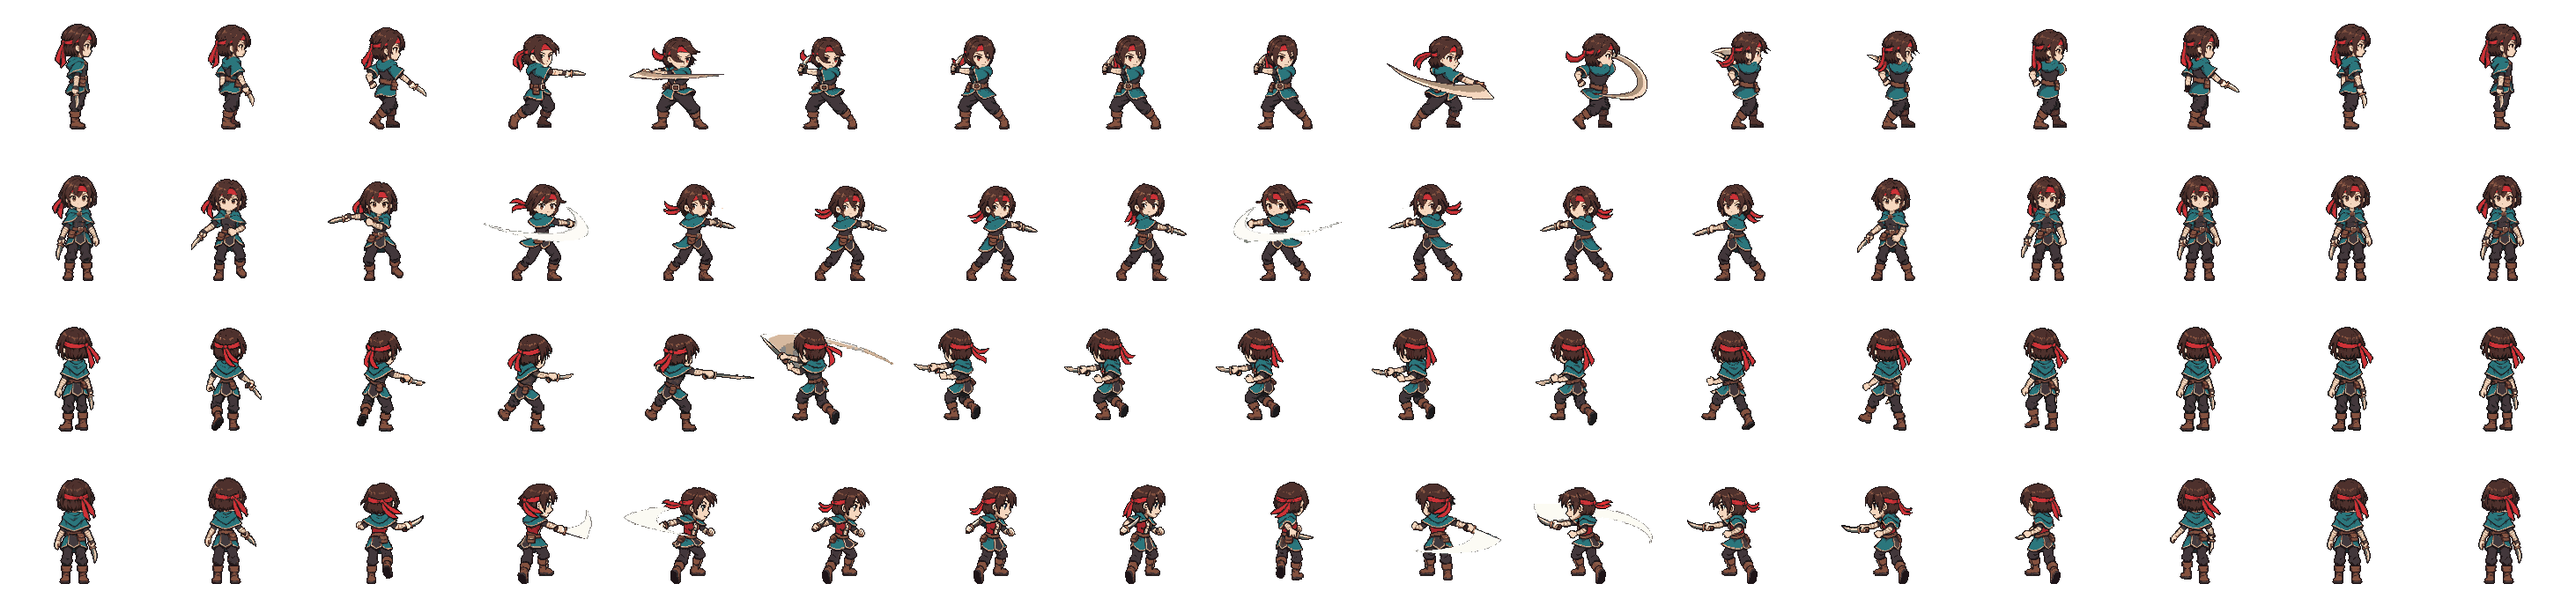
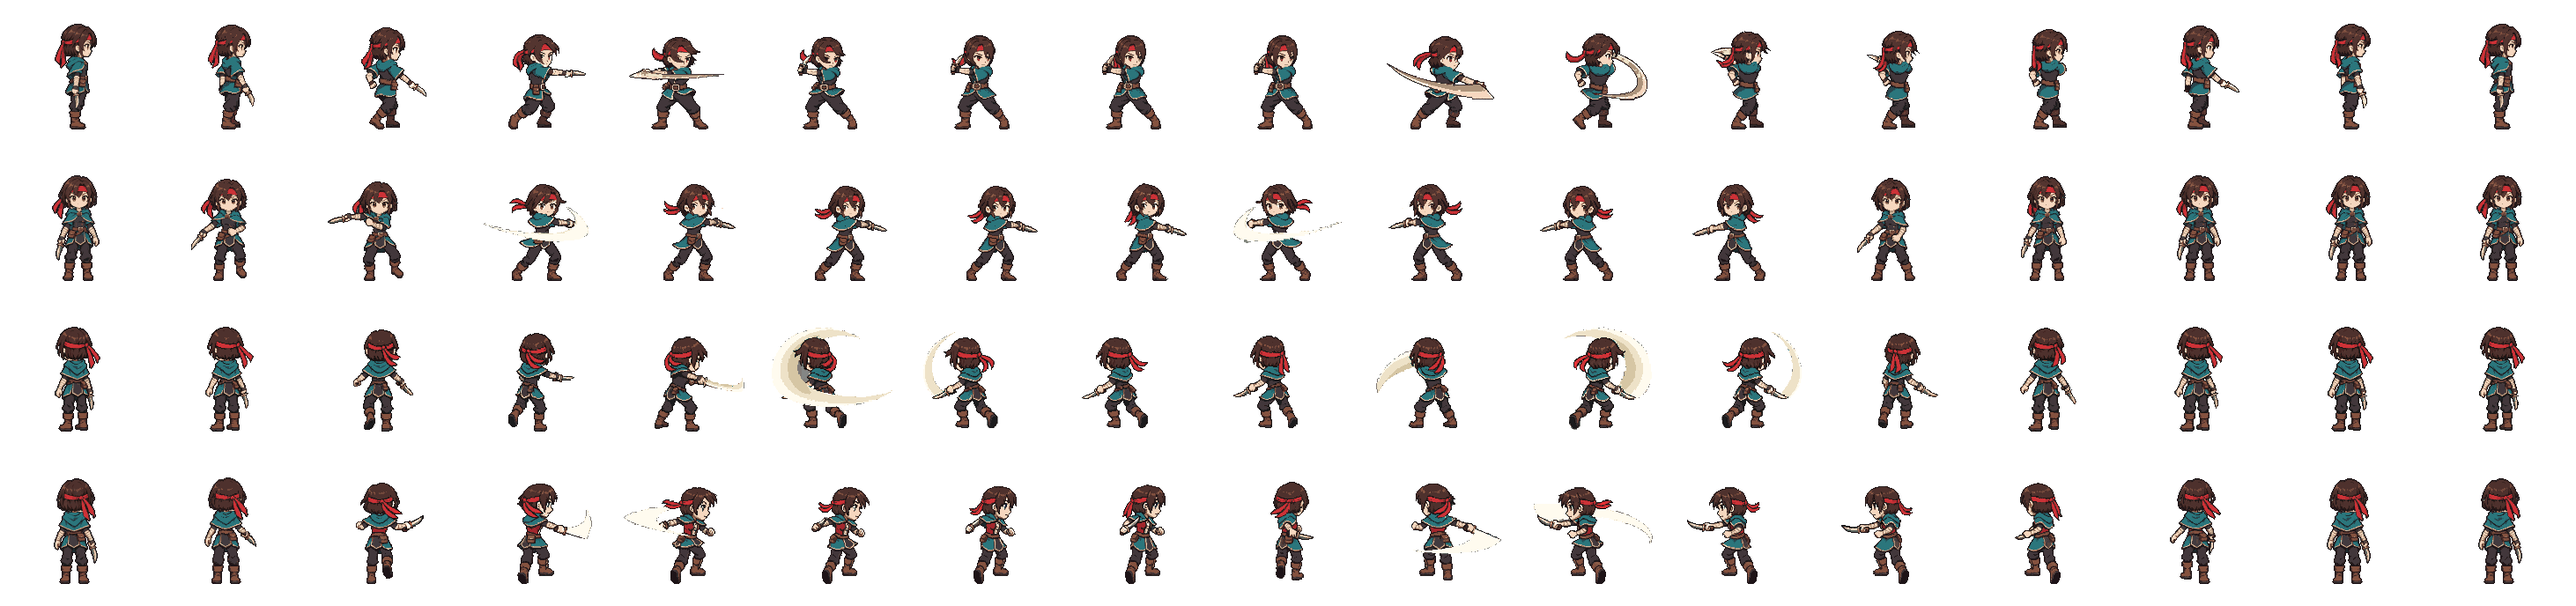
Action prototype: same blade-arc colour in every direction, hit effects
Every direction's blade arc is repainted on one cream-white ramp (PixelLab
drew them white, beige or cyan). The upper diagonals use the new two-sweep
back-view attack. New pixel effects: impact star and ring at the hit point,
a slime splat on a kill, a short white flash and camera kick on the last
hit, dust under the run, and roll after-images in the roll pose.

diff --git a/action.html b/action.html
@@ -163,6 +163,38 @@ function ellipseSprite(w, h, col, ring) {
     if (r <= 1 && (!ring || r > .62)) P.set(x, y, c, ring ? 255 : 255); }
   return P.done();
 }
+// hit effects as pixel sprites (owner: effects like the reference game): impact star -> ring -> sparkles; slime splat
+function starFrames(R, n) {
+  const W = [255, 255, 255], Y = [255, 236, 150], out = [];
+  for (let f = 0; f < n; f++) {
+    const S = R * 2 + 6, P = painter(S, S), c = S >> 1, k = f / (n - 1);
+    if (f === 0) {                                   // bright core, 4 long rays, 4 short diagonals
+      for (let i = -R; i <= R; i++) { const a = Math.abs(i), w = a < R * .3 ? 2 : a < R * .65 ? 1 : 0, col = a > R * .7 ? Y : W;
+        for (let t = -w; t <= w; t++) { P.set(c + i, c + t, col); P.set(c + t, c + i, col); } }
+      const q = R * .5 | 0; for (let i = -q; i <= q; i++) { P.set(c + i, c + i, Y); P.set(c + i, c - i, Y); }
+      P.disc(c, c, Math.max(2, R * .22 | 0), Math.max(2, R * .22 | 0), W);
+    } else {                                         // expanding ring that thins out, with sparkles round it
+      const rr = R * (.45 + .55 * k), th = f === n - 1 ? .6 : 1.3;
+      for (let y = 0; y < S; y++) for (let x = 0; x < S; x++) if (Math.abs(Math.hypot(x - c, y - c) - rr) < th) P.set(x, y, f < n - 1 ? W : Y);
+      if (f === 1) { const q = R * .55 | 0; for (let i = -q; i <= q; i++) { P.set(c + i, c, W); P.set(c, c + i, W); } P.disc(c, c, 2, 2, W); }
+      for (let s = 0; s < 6; s++) { const a = s * Math.PI / 3 + f * .4, d = rr + 3; P.set(c + Math.cos(a) * d, c + Math.sin(a) * d, Y); P.set(c + Math.cos(a) * d + 1, c + Math.sin(a) * d, Y); }
+    }
+    out.push(P.done());
+  }
+  return out;
+}
+function splatFrames(dk, lt) {
+  const D = hex(dk), L = hex(lt), out = [];
+  for (let f = 0; f < 4; f++) {
+    const S = 64, P = painter(S, S), c = S >> 1, rr = 6 + f * 7, r = Math.max(1, 3 - f);
+    P.disc(c, c + 10, 12 + f * 3, 3 + (f > 1 ? 0 : 1), D);                 // puddle spreading on the ground
+    for (let s = 0; s < 10; s++) { const a = s * Math.PI / 5 + .3, x = c + Math.cos(a) * rr, y = c + Math.sin(a) * rr * .6 - (f < 2 ? 4 : 0);
+      P.disc(x | 0, y | 0, r, r, f < 2 ? L : D); }
+    out.push(P.done());
+  }
+  return out;
+}
+const FXS = {};
 // 3x5 pixel digits for damage numbers
 const DIG = ['111101101101111', '010110010010111', '111001111100111', '111001111001111', '101101111001001', '111100111001111', '111100111101111', '111001001010010', '111101111101111', '111101111001111'];
 
@@ -176,6 +208,8 @@ async function load() {
   BG = makeGround();
   SL.green = makeSlime(['#2f6f2a', '#56b045', '#8fe070', '#e8ffd8']);
   SL.blue = makeSlime(['#284a8a', '#4a7fd0', '#86b8f4', '#eef6ff']);
+  FXS.burst = starFrames(13, 4); FXS.burstB = starFrames(22, 5);
+  FXS.splat_green = splatFrames('#2f6f2a', '#8fe070'); FXS.splat_blue = splatFrames('#284a8a', '#86b8f4');
 }
 
 // ---------- state ----------
@@ -269,10 +303,13 @@ function doHit(p, h) {
     any = true; m.hp -= h.dmg; m.hit = .12; m.st = 'hurt'; m.t = 0;
     const k = h.kb / Math.max(d, 1); m.kx = dx * k * 4; m.ky = dy * k * 4;
     spark(m.x, m.y - 16, 8, '#ffffff'); spark(m.x, m.y - 16, 4, '#ffe066');
+    G.fx.push({k: 'burst', x: m.x - dx / Math.max(d, 1) * 10, y: m.y - 18, t: 0, life: .2, big: h.kb > 60});   // impact star
     G.nums.push({x: m.x + (rnd() - .5) * 10, y: m.y - 46, v: h.dmg, t: 0, big: h.dmg >= 20});
-    if (m.hp <= 0) { G.kills++; m.dieT = 0; for (let k2 = 0; k2 < 10; k2++) puff(m.x + (rnd() - .5) * 30, m.y - 8, m.kind === 'blue' ? '#86b8f4' : '#8fe070'); }
+    if (m.hp <= 0) { G.kills++; m.dieT = 0; for (let k2 = 0; k2 < 10; k2++) puff(m.x + (rnd() - .5) * 30, m.y - 8, m.kind === 'blue' ? '#86b8f4' : '#8fe070');
+      G.fx.push({k: 'splat', x: m.x, y: m.y - 8, t: 0, life: .4, c: m.kind}); }
   }
-  if (any) { G.hs = Math.max(G.hs, h.hs); G.shake = Math.max(G.shake, h.sh); }
+  if (any) { G.hs = Math.max(G.hs, h.hs); G.shake = Math.max(G.shake, h.sh);
+    if (h.kb > 60) { G.flash = .09; G.kick = {x: fx * 6, y: fy * 6, t: .12}; } }   // last hit: white flash + camera kick
   // no code-drawn slash arc: the PixelLab frames carry their own blade smears (owner found the extra arc odd)
 }
 function hurtPlayer(dmg, fromX, fromY) {
@@ -302,7 +339,7 @@ function stepPlayer(dt) {
   if (p.state === 'roll') {
     const r = p.roll; r.t += dt; const k = 1 - r.t / ROLL.t, sp = ROLL.sp * (.35 + .65 * k);
     p.x += r.vx * sp * dt; p.y += r.vy * sp * dt; r.g -= dt;
-    if (r.g <= 0) { r.g = .035; G.ghosts.push({x: p.x, y: p.y, dir: p.dir, t: 0}); }
+    if (r.g <= 0) { r.g = .035; G.ghosts.push({x: p.x, y: p.y, dir: p.dir, t: 0, k: r.t / ROLL.t}); if (rnd() < .6) puff(p.x + (rnd() - .5) * 16, p.y, '#e6dcc0'); }
     if (r.t >= ROLL.t) { p.state = 'idle'; p.roll = null; puff(p.x, p.y, '#e6dcc0'); }
   } else if (p.state === 'atk') {
     const a = p.a, P = a.plan; a.t += dt * 1000;
@@ -327,7 +364,7 @@ function stepPlayer(dt) {
   if (p.state === 'idle' || p.state === 'move') {
     if (mx || my) {
       p.state = 'move'; const sp = RUN; p.x += mx * sp * dt; p.y += my * sp * dt; p.dir = dirOf(mx, my);
-      p.step += dt; if (p.step > .14) { p.step = 0; p.bob ^= 1; if (p.bob) puff(p.x - DV[p.dir][0] * 8, p.y, '#cfe3a8'); }
+      p.step += dt; if (p.step > .15) { p.step = 0; p.bob ^= 1; puff(p.x - DV[p.dir][0] * 10 + (rnd() - .5) * 8, p.y - 1, p.bob ? '#efe6c9' : '#d9e8b4'); }   // kicked-up dust
     } else { p.state = 'idle'; p.bob = 0; }
   }
   p.x = clamp(p.x, MARGIN.l, WW - MARGIN.r); p.y = clamp(p.y, MARGIN.t, WH - MARGIN.b);
@@ -385,6 +422,7 @@ function step(dt) {
   for (const g of G.ghosts) g.t += dt; G.ghosts = G.ghosts.filter(g => g.t < .22);
   if (G.banner) { G.banner.t += dt; if (G.banner.t > 1.6) G.banner = null; }
   G.shake = Math.max(0, G.shake - dt * 30);
+  if (G.flash > 0) G.flash -= dt; if (G.kick) { G.kick.t -= dt; if (G.kick.t <= 0) G.kick = null; }
 }
 
 // ---------- drawing ----------
@@ -438,6 +476,7 @@ function draw() {
   cam.x = clamp(cam.x, 0, Math.max(0, WW - VW)); cam.y = clamp(cam.y, 0, Math.max(0, WH - VH));
   let cx = Math.round(cam.x), cy = Math.round(cam.y);
   if (G.shake > 0) { cx += Math.round((rnd() - .5) * G.shake * 2); cy += Math.round((rnd() - .5) * G.shake * 2); }
+  if (G.kick) { const k = G.kick.t / .12; cx += Math.round(G.kick.x * k); cy += Math.round(G.kick.y * k); }
   ctx.setTransform(S, 0, 0, S, -cx * S, -cy * S);
   ctx.drawImage(BG, 0, 0);
   // shadows + warning rings
@@ -449,7 +488,8 @@ function draw() {
   for (const f of G.fx) if (f.k === 'puff') { ctx.globalAlpha = 1 - f.t / f.life; ctx.fillStyle = f.c; const s = (f.t < f.life * .5 ? 2 : 1) * Math.ceil(U / 2) * 2; ctx.fillRect(Math.round(f.x), Math.round(f.y), s, s); }
   ctx.globalAlpha = 1;
   // dodge after-images
-  for (const g of G.ghosts) drawStill(g.dir, g.x, g.y, .35 * (1 - g.t / .22));
+  for (const g of G.ghosts) { const ar = animRow('roll', g.dir), a = .35 * (1 - g.t / .22);   // after-images copy the roll pose
+    if (ar) drawCell(ar.img, ar.r, Math.min(ar.n - 1, Math.floor(g.k * ar.n)), g.x, g.y, ar.flip, a); else drawStill(g.dir, g.x, g.y, a); }
   // bodies, back to front
   const list = [{y: p.y, d: () => drawPlayer(p)}, ...G.mobs.map(m => ({y: m.y, d: () => drawMob(m)}))].sort((a, b) => a.y - b.y);
   for (const o of list) o.d();
@@ -460,10 +500,15 @@ function draw() {
       for (let s = -1; s <= 1; s += .06) { const a = a0 + s * 1.2, rr = R * (1 - .25 * Math.abs(s)), w = Math.round((1 - Math.abs(s)) * (f.big ? 4 : 3)) + 1;
         if (Math.abs(s) > .3 + k * 1.2) continue; ctx.fillRect(Math.round(f.x + Math.cos(a) * rr), Math.round(f.y + Math.sin(a) * rr * .6), w, w); } }
     if (f.k === 'spark') { ctx.fillStyle = f.c; ctx.globalAlpha = 1 - f.t / f.life; ctx.fillRect(Math.round(f.x), Math.round(f.y), U + 1, U + 1); ctx.globalAlpha = 1; }
+    if (f.k === 'burst') { const set = f.big ? FXS.burstB : FXS.burst, im = set[Math.min(set.length - 1, Math.floor(f.t / f.life * set.length))];
+      ctx.drawImage(im, Math.round(f.x - im.width / 2), Math.round(f.y - im.height / 2)); }
+    if (f.k === 'splat') { const set = FXS['splat_' + f.c], im = set[Math.min(set.length - 1, Math.floor(f.t / f.life * set.length))];
+      ctx.drawImage(im, Math.round(f.x - im.width / 2), Math.round(f.y - im.height / 2)); }
   }
   for (const n of G.nums) { const k = n.t / .75; ctx.globalAlpha = k > .7 ? (1 - k) / .3 : 1; drawDigits(n.v, n.x, n.y - k * 26 - (k < .15 ? (1 - k / .15) * -6 : 0), n.big ? U + 1 : U, n.red ? '#ff6060' : n.big ? '#ffe066' : '#ffffff'); ctx.globalAlpha = 1; }
-  // screen-space: joystick + wave banner
+  // screen-space: hit flash, joystick, wave banner
   ctx.setTransform(DPR, 0, 0, DPR, 0, 0);
+  if (G.flash > 0) { ctx.fillStyle = 'rgba(255,255,255,' + (G.flash / .09 * .16).toFixed(3) + ')'; ctx.fillRect(0, 0, innerWidth, innerHeight); }
   if (stick.on) { ctx.globalAlpha = .35; ctx.fillStyle = '#fff'; ctx.beginPath(); ctx.arc(stick.ox, stick.oy, 50, 0, 7); ctx.fill();
     const dx = stick.x - stick.ox, dy = stick.y - stick.oy, l = Math.hypot(dx, dy), k = l > 50 ? 50 / l : 1;
     ctx.globalAlpha = .7; ctx.beginPath(); ctx.arc(stick.ox + dx * k, stick.oy + dy * k, 22, 0, 7); ctx.fill(); ctx.globalAlpha = 1; }

diff --git a/tools/art/act_sheet.py b/tools/art/act_sheet.py
@@ -43,6 +43,22 @@ def dedust(im):
         if sz[k - 1] < 120 or (pale and sz[k - 1] < 900): a[blob] = 0
     return Image.fromarray(a)
 
+SMEAR = [(214, 198, 164), (238, 226, 200), (255, 251, 239)]   # one blade-arc ramp for every direction (owner 2026-11-08)
+PAL = None
+
+def smear(im):
+    # PixelLab paints each direction's blade arc in its own colours (white, beige, cyan...). Arc pixels = colours the
+    # character's still pictures do not have (more than 30 away from every still colour) that are light or bluish;
+    # they are repainted on SMEAR by brightness, so every direction's arc looks the same. Body colours are untouched.
+    import numpy as np
+    a = np.array(im).astype(int); rgb = a[..., :3]; m = a[..., 3] > 0
+    d = np.full(m.shape, 1e9)
+    for c in PAL: d = np.minimum(d, ((rgb - c) ** 2).sum(2))
+    L = .3 * rgb[..., 0] + .59 * rgb[..., 1] + .11 * rgb[..., 2]
+    arc = m & (d > 30 * 30) & ((L > 150) | (rgb[..., 2] > rgb[..., 0] + 35))
+    for lo, c in zip([-1, 150, 205], SMEAR): a[arc & (L > lo), :3] = c
+    return Image.fromarray(a.astype('uint8'))
+
 def frames(folder, d, name):
     # folder: a,b | @<state dir>::a,b | several of those joined by "|" (later ones win per direction)
     fs = []
@@ -52,7 +68,8 @@ def frames(folder, d, name):
         for f in fl.split(','):
             fs = sorted(glob.glob(os.path.join(base, 'animations', f, d, 'frame_*.png'))) or fs
     out = [Image.open(f).convert('RGBA') for f in fs]
-    return out if name in ('attack', 'chop') else [dedust(im) for im in out]   # attacks keep their detached blade smears
+    if name in ('attack', 'chop'): return [smear(im) for im in out]   # attacks keep their detached blade smears
+    return [dedust(im) for im in out]
 
 def hits(fr):
     # swing frames: PixelLab draws a blade smear there, so the figure is widest; a hit = a local maximum of the
@@ -62,6 +79,8 @@ def hits(fr):
     return [i for i in range(1, len(w) - 1) if w[i] >= 1.25 * med and w[i] >= w[i - 1] and w[i] >= w[i + 1] and (w[i] > w[i - 1] or w[i] > w[i + 1])]
 
 rot = [Image.open(os.path.join(src, 'rotations', d + '.png')).convert('RGBA') for d in DIRS]
+import numpy as _np
+PAL = _np.unique(_np.concatenate([_np.array(r)[_np.array(r)[..., 3] > 0][:, :3] for r in rot]), axis=0).astype(int)
 data = {name: {d: ([] if f'{name}/{d}' in SKIP else frames(folder, d, name)) for d in DIRS} for name, folder in anims}
 C = max([rot[0].width] + [fr[0].width for a in data.values() for fr in a.values() if fr])
 pad = (C - rot[0].width) // 2

diff --git a/docs/action-game.md b/docs/action-game.md
@@ -40,7 +40,7 @@ user env var, never printed; `--upload` for images). Balance at start: 40 + 20 d
 | date | what | id | cost | result |
 |---|---|---|---|---|
 | 2026-11-08 | import "Dagger Rogue 128": all 8 views from `pl_rot/` (the first account's PixelLab rotations) | 6f024d02-2df1-4fb1-aaae-43922ac724ce | 0.25 | ✅ "nothing generated"; downloaded back to `pl2_rot/` and compared: all 8 views identical to `pl_rot/` (0 pixels differ) |
-| 2026-11-08 | NW attack redo "attack_ul" (owner: the upper diagonals still had one sweep + a stab): two wide SIDEWAYS sweeps, seen from behind, never facing the camera; NE mirrors it | group d9721383-636b-4fb0-9421-c5b2feab6d6e | 1 | done, NOT used: the owner had already approved the earlier upper attacks (N = attack_back, NW = attack_2hit_b, NE = NW mirrored) |
+| 2026-11-08 | NW attack redo "attack_ul" (owner: the upper diagonals still had one sweep + a stab): two wide SIDEWAYS sweeps, seen from behind, never facing the camera; NE mirrors it | group d9721383-636b-4fb0-9421-c5b2feab6d6e | 1 | ✅ owner chose it ("B") over attack_2hit_b NW: NW = attack_ul, NE = its mirror (`rogue_build.sh`) |
 | 2026-11-08 | base moves, owner "เอาทุกอย่างที่ใช้เจนไป ยกเว้นสกิล": run 8f ×8 (loop, keep_first_frame off), idle 8f ×8 (loop), roll 8f ×8, hurt 4f ×8, death 8f ×4 (E S W N) — 36 jobs from `art/incoming/action/rogue/jobs_base.json` via `tools/pl_queue.py` (one at a time, ZIP into `pl2_dl/` after each, log `pl2_dl/queue.log`, group ids `pl2_dl/groups.json`; rerunning skips what is downloaded) | see groups.json | 36 (3.75 + daily bonus left) | ✅ all 36 done 15:13–15:49; dust puffs beside the run / roll are cut by `act_sheet.py` (`dedust`: small or pale separate blobs). In the game: idle loop 7 fps, run loop 13 fps at speed 230, roll 0.4 s, hit 0.28 s, death 0.9 s (nearest of E S W N) |
 **Back views (N, NE, NW): ask for VERTICAL cuts** (overhead chop, rising slash) plus "seen from BEHIND … never turns … face never visible"; sideways swings make PixMiniMax turn her side-on or toward the camera.
 Download the ZIP only between jobs (`/mcp/characters/<id>/download` answers "still being generated" while a job runs).
@@ -49,6 +49,12 @@ Download the ZIP only between jobs (`/mcp/characters/<id>/download` answers "sti
 did not match the sideways slashes of the other directions, so the attack is the FIRST run (`attack_2hit_b`) in N, NE, NW
 again (they turn a bit, accepted); the vertical chops are kept as `chop` (N + NW) for a skill later. Lower diagonals + W
 still play the east clip. Build: `bash tools/art/rogue_build.sh` (writes `art/action/rogue.json` + one PNG per move).
+
+Blade arcs: PixelLab painted each direction's arc its own colour (white, beige, cyan); `act_sheet.py smear()` repaints every
+pixel that is not a colour of the stills and is light or bluish onto one cream-white ramp (owner "ทำสีให้เหมือนกันทุกทิศ").
+Hit effects (owner "ใส่เอฟเฟคให้เหมือนเกมต้นแบบ"): pixel impact star → ring → sparkles at the hit point (`starFrames`, big on
+the last hit), slime splat on a kill (`splatFrames`), a 16% white screen flash + camera kick toward the swing on the last hit,
+run dust, roll after-images that copy the roll frame.
 
 ## Game: `action.html` (prototype, 2026-11-08)
 One file. Bright meadow painted in code at 1 world px = 1 art px (`makeGround`: diamond tiles, grass tones with Bayer
